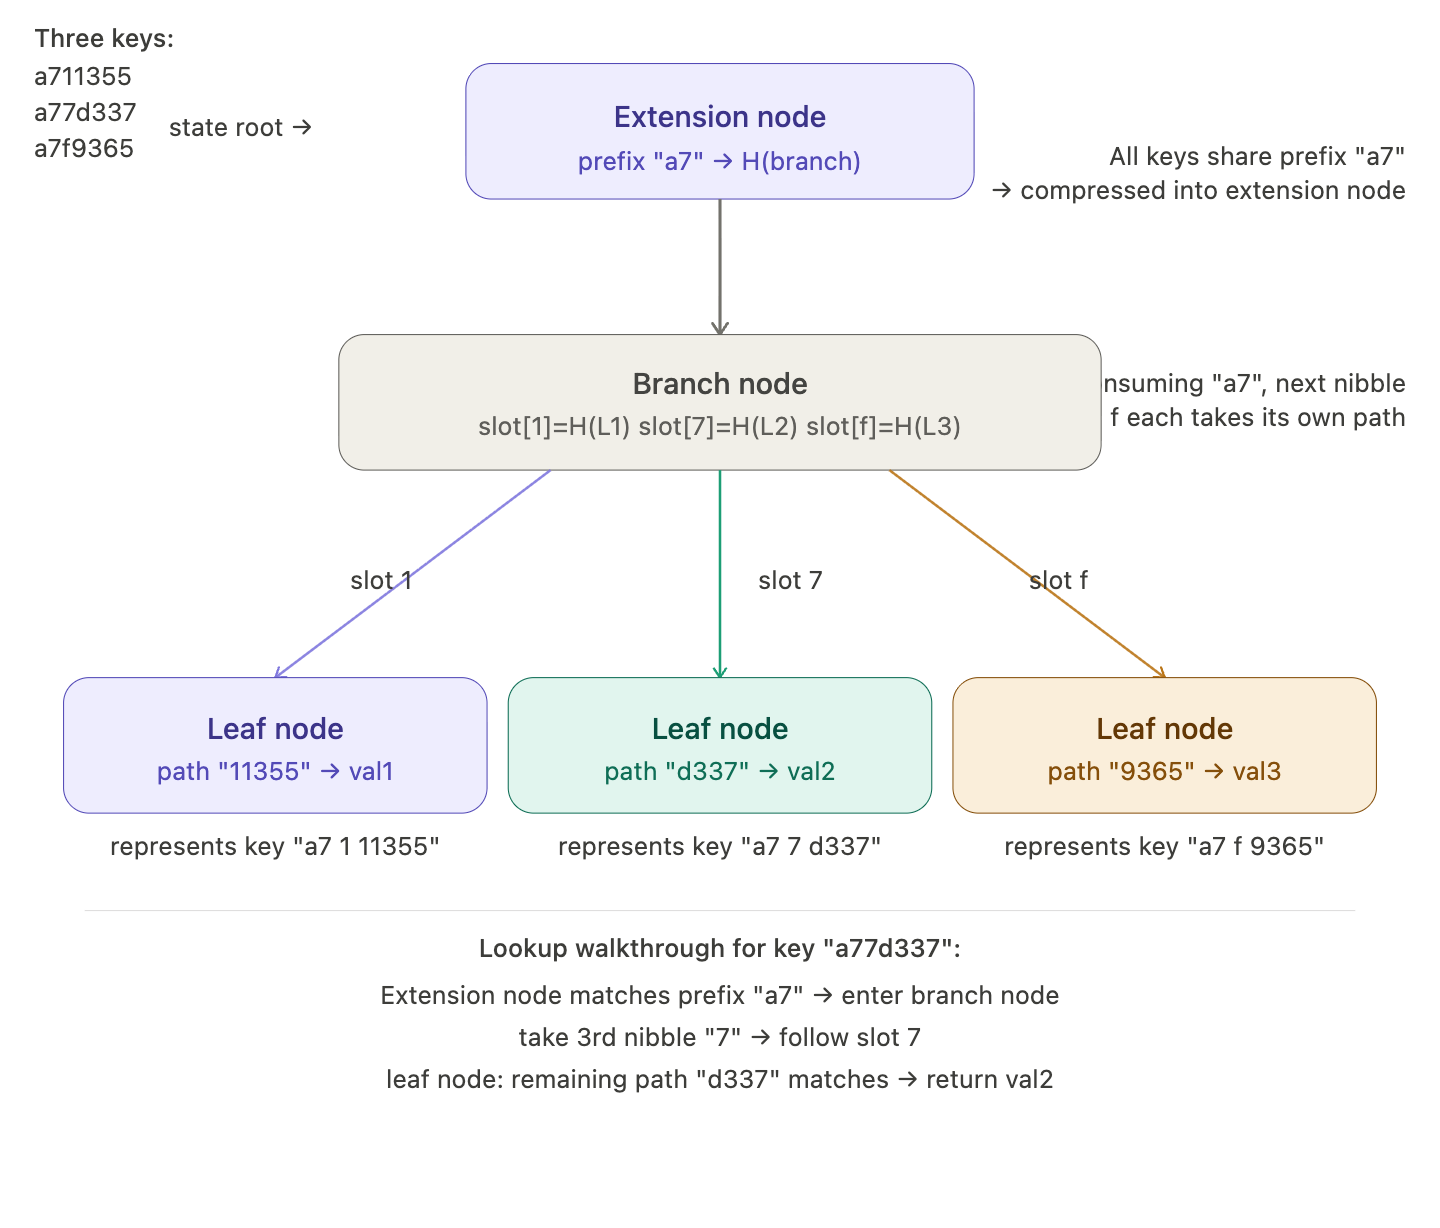
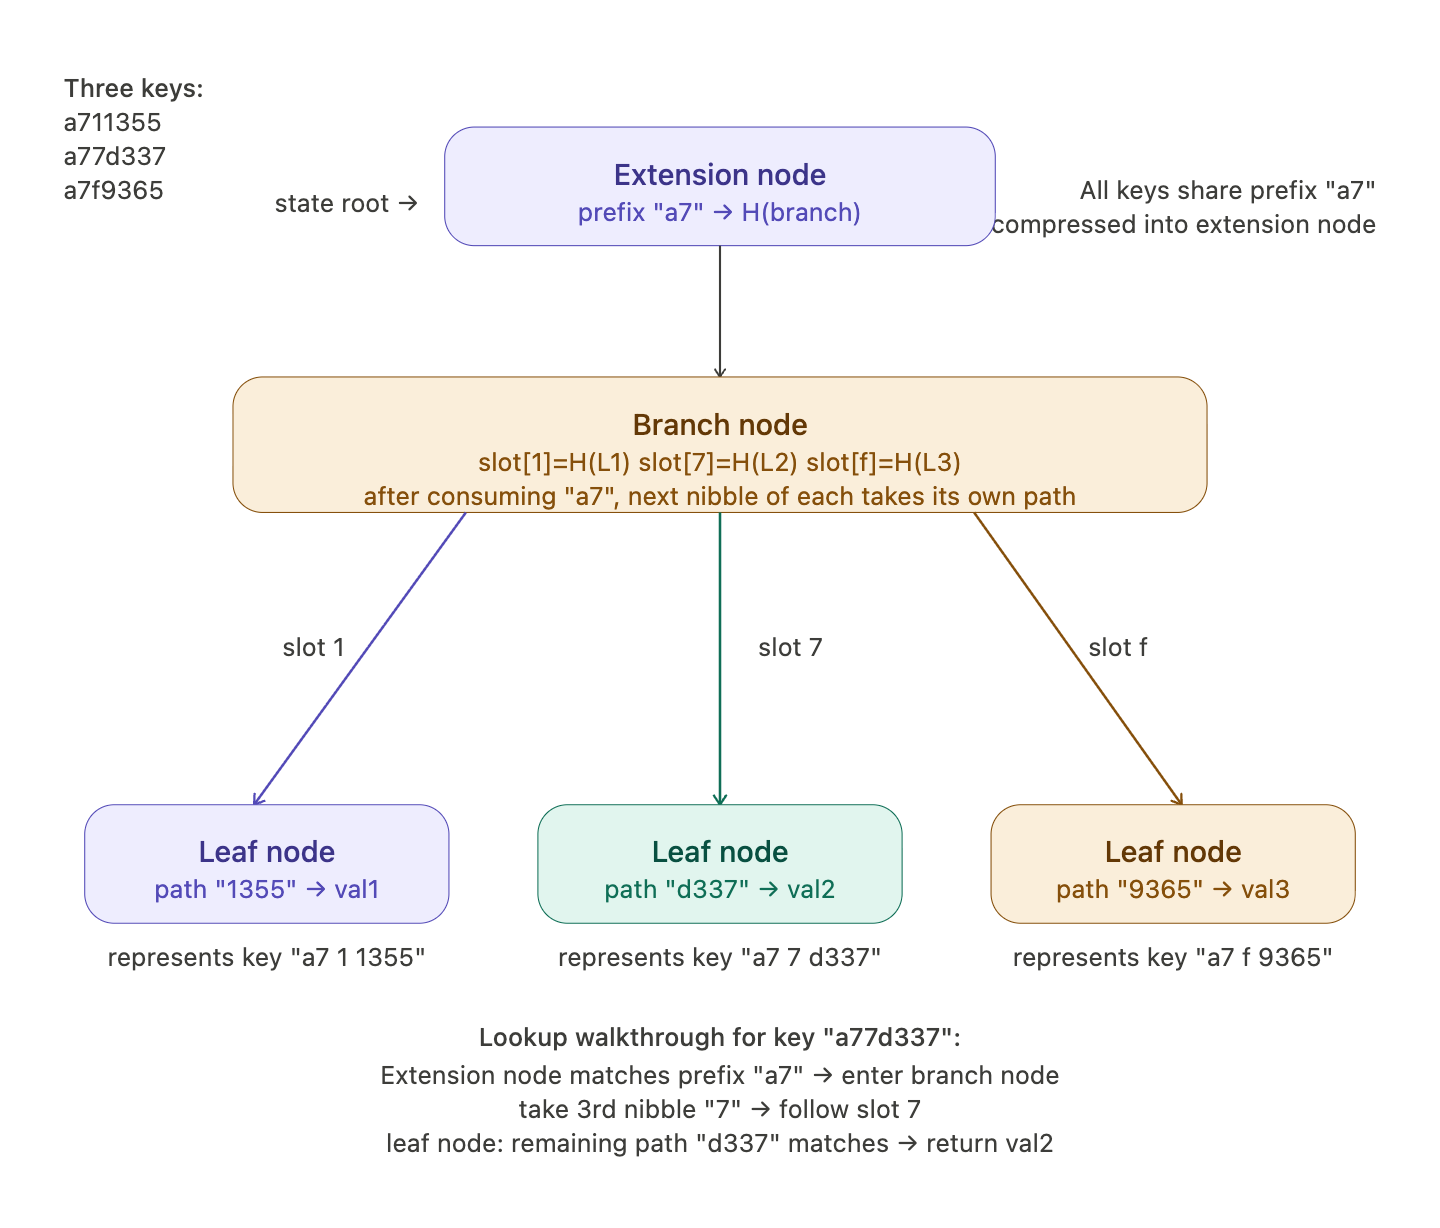
[Post update]: fix errors

diff --git a/src/content/posts/Chain-ETH/EELS(1) What is Merkle-Patricia Trie.md b/src/content/posts/Chain-ETH/EELS(1) What is Merkle-Patricia Trie.md
@@ -298,7 +298,7 @@ Immediately after a7, the keys diverge at the third nibble: **1**, **7**, and
 
 Each path ends in a **Leaf Node** containing the unique "suffix" of the key and the actual account data (balance, nonce, etc.).
 
-- Key 1 leaf stores: 11355 + Value 1
+- Key 1 leaf stores: 1355 + Value 1
 - Key 2 leaf stores: d337 + Value 2
 - Key 3 leaf stores: 9365 + Value 3
 
